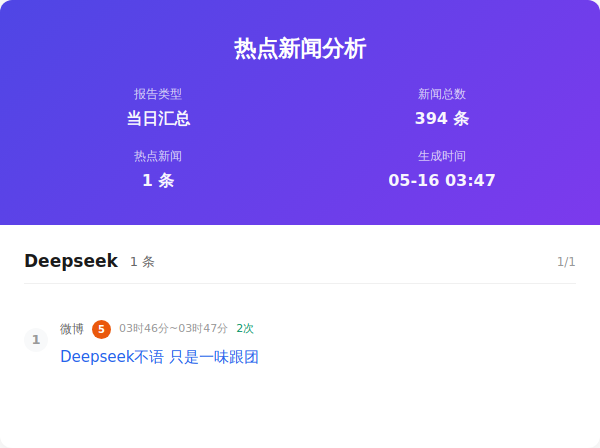
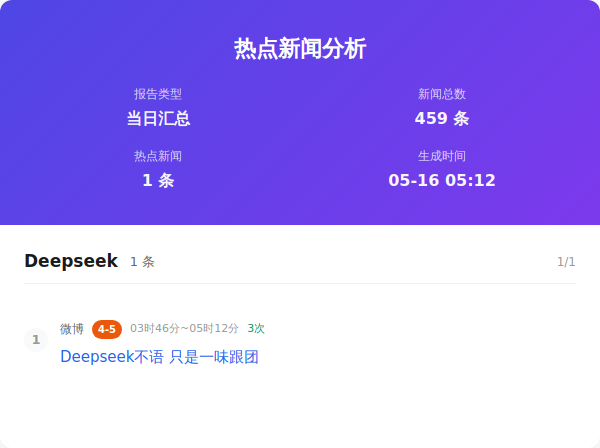
Auto update by GitHub Actions at Sat May 16 05:12:19 CST 2026

Changed region(s): [[0.15, 0.7188, 0.45, 0.7812], [0.75, 0.375, 0.84, 0.4375], [0.69, 0.25, 0.75, 0.2812]]

diff --git a/output/2026年05月16日/html/当日汇总.html b/output/2026年05月16日/html/当日汇总.html
@@ -357,7 +357,7 @@
                     </div>
                     <div class="info-item">
                         <span class="info-label">新闻总数</span>
-                        <span class="info-value">394 条</span>
+                        <span class="info-value">459 条</span>
                     </div>
                     <div class="info-item">
                         <span class="info-label">热点新闻</span>
@@ -365,7 +365,7 @@
                     </div>
                     <div class="info-item">
                         <span class="info-label">生成时间</span>
-                        <span class="info-value">05-16 03:47</span>
+                        <span class="info-value">05-16 05:12</span>
                     </div>
                 </div>
             </div>
@@ -383,7 +383,7 @@
                         <div class="news-number">1</div>
                         <div class="news-content">
                             <div class="news-header">
-                                <span class="source-name">微博</span><span class="rank-num high">5</span><span class="time-info">03时46分~03时47分</span><span class="count-info">2次</span>
+                                <span class="source-name">微博</span><span class="rank-num high">4-5</span><span class="time-info">03时46分~05时12分</span><span class="count-info">3次</span>
                             </div>
                             <div class="news-title"><a href="https://s.weibo.com/weibo?q=Deepseek%E4%B8%8D%E8%AF%AD%20%E5%8F%AA%E6%98%AF%E4%B8%80%E5%91%B3%E8%B7%9F%E5%9B%A2&amp;t=31&amp;band_rank=5&amp;Refer=top" target="_blank" class="news-link">Deepseek不语 只是一味跟团</a>
                             </div>